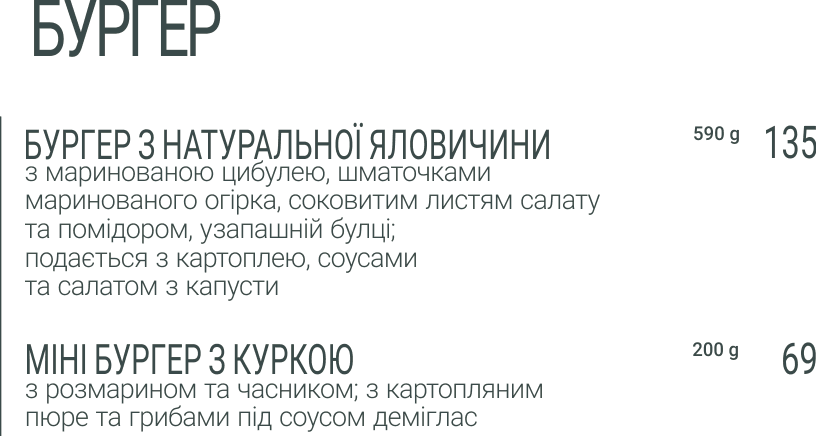
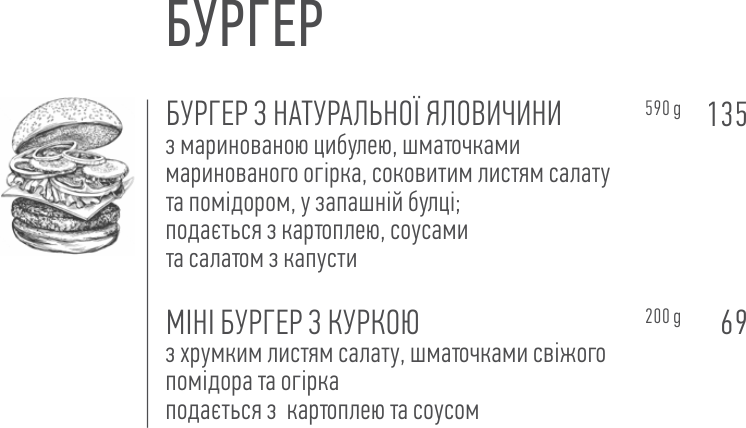
all menu designed

diff --git a/index.html b/index.html
@@ -9,7 +9,7 @@
 <header>
     <div class="header-container">
         <div class="logo-container">
-            <img src="images/cropped-logo-white.png" alt="">
+            <img src="images/logo-white.svg" alt="">
         </div>
         <div class="header-text-container">
             "Товстий Кіт" - Найсмачніша їжа у Луцьку
@@ -18,16 +18,40 @@
 </header>
 <div class="maine-container">
     <div class="maine-menu-container">
-        <div class="menu-title"> Меню Товстий Кіт</div>
-        <div class="hr-line">
-            <img src="images/Menu-Divider.png" alt="">
+        <div class="menu-header">
+            <div class="menu-title"> Меню Товстий Кіт</div>
+            <div class="hr-line">
+                <img src="images/Menu-Divider.png" alt="">
+            </div>
         </div>
         <div class="menu-elements">
-            <img src="images/myaso_ptizza.png" alt="">
-            <img src="images/ryba_moreprodukti.png" alt="">
-            <img src="images/pasta_fresca.png" alt="">
-            <img src="images/burger.png" alt="">
-            <img src="images/deserti.png" alt="">
+            <div class="dark-elements">
+                <img src="images/pizza.png" alt="">
+            </div>
+            <div class="light-elements">
+                <img src="images/salad.png" alt="">
+                <img src="images/new.png" alt="">
+                <img src="images/snacks.png" alt="">
+                <img src="images/soup_&_bakery.png" alt="">
+                <img src="images/poultry_and_meat.png" alt="">
+                <img src="images/seafood_and_fish.png" alt="">
+                <img src="images/paste.png" alt="">
+                <img src="images/burger.png" alt="">
+                <img src="images/desserts.png" alt="">
+            </div>
+            <div class="dark-elements">
+                <img src="images/juce_water_coctaile0+.png" alt="">
+                <img src="images/coffee.png" alt="">
+                <img src="images/ronnefeldt_tea.png" alt="">
+                <img src="images/branded_tea.png" alt="">
+                <img src="images/hot_chocolate.png" alt="">
+            </div>
+            <div class="light-elements">
+                <img src="images/alcohol.png" alt="">
+            </div>
+            <div class="dark-elements">
+                <img src="images/sushi.png" alt="">
+            </div>
         </div>
     </div>
 </div>

diff --git a/css/style.css b/css/style.css
@@ -29,12 +29,12 @@ html, body {
 }
 
 * {
-  font-family: Roboto, sans-serif;
+  font-family: "PF Din Text Comp Pro", "PF Din Text Comp Pro Light", sans-serif;
 }
 
 .header-container {
   min-width: 320px;
-  background-color: #59514c;
+  background-color: #B8AB80;
 }
 
 .logo-container {
@@ -43,7 +43,8 @@ html, body {
   justify-content: center;
 }
 .logo-container img {
-  width: 30%;
+  min-width: 15%;
+  max-width: 15%;
 }
 
 .header-text-container {
@@ -51,45 +52,73 @@ html, body {
   justify-content: center;
   padding-bottom: 30px;
   color: white;
-  font-weight: 200;
-  font-size: 35px;
+  font-weight: 100;
+  font-size: 40px;
 }
 
 .maine-container {
   min-width: 320px;
-  background-color: #c5d9d3;
-  padding: 36px 30px 100px 30px;
+  /*
+    padding: 36px 30px 100px 30px;*/
+}
+
+.dark-elements {
+  background-color: #4D4D4F;
+  display: grid;
+  grid-gap: 5em;
+  justify-content: center;
+  padding: 5em 120px 5em 0;
+}
+
+.light-elements {
+  background-color: white;
+  display: grid;
+  grid-gap: 5em;
+  justify-content: center;
+  padding: 20px 120px 20px 20px;
+}
+
+.menu-header {
+  background-color: #4D4D4F;
+  /*  height: auto;
+    max-width: 100%;*/
 }
 
 .menu-title {
   display: flex;
   padding: 0.5em 0 0.5em 0;
   justify-content: center;
-  font-size: 75px;
-  font-weight: 400;
-  color: #75807d;
+  font-size: 80px;
+  font-family: Roboto, sans-serif;
+  font-weight: 100;
+  color: white;
+  opacity: 0.78;
 }
 
 .hr-line {
   display: flex;
   justify-content: center;
   padding-bottom: 3em;
+  max-width: 70%;
+  margin-left: auto;
+  margin-right: auto;
 }
 
 .menu-elements {
   display: grid;
-  grid-gap: 10em;
+  grid-gap: 5em;
 }
 .menu-elements img {
   align-self: center;
   justify-self: center;
   width: 750px;
   max-width: 100%;
+  min-width: 370px;
   height: auto;
 }
 
 footer {
-  background-color: #59514c;
+  background-color: #B8AB80;
   display: flex;
   justify-content: center;
 }
@@ -98,7 +127,7 @@ footer {
   padding: 30px 0 30px 0;
   color: white;
   font-weight: 200;
-  font-size: 20px;
+  font-size: 30px;
 }
 
 /*# sourceMappingURL=style.css.map */

diff --git a/scss/layout/maine-container.scss b/scss/layout/maine-container.scss
@@ -1,31 +1,54 @@
 .maine-container {
   min-width: $minWidth+px;
-  background-color: $color-maine-blue;
-  padding: 36px 30px 100px 30px;
+/*
+  padding: 36px 30px 100px 30px;*/
 }
-
+.dark-elements {
+  background-color: $color-maine-dark;
+  display: grid;
+  grid-gap: 5em;
+  justify-content: center;
+  padding: 5em 120px 5em 0;
+}
+.light-elements{
+  background-color: white;
+  display: grid;
+  grid-gap: 5em;
+  justify-content: center;
+  padding: 20px 120px 20px 20px;
+}
+.menu-header{
+  background-color: $color-maine-dark;
+/*  height: auto;
+  max-width: 100%;*/
+}
 .menu-title {
   display: flex;
   padding: 0.5em 0 0.5em 0;
   justify-content: center;
   font-size: $extra-large-font;
-  font-weight: 400;
-  color: $color-maine-text;
+  font-family: Roboto, sans-serif;
+  font-weight: 100;
+  color: white;
+  opacity: 0.78;
 }
 
 .hr-line {
   display: flex;
   justify-content: center;
   padding-bottom: 3em;
+  max-width: 70%;
+  @include centering;
 }
 .menu-elements {
   display: grid;
-  grid-gap: 10em;
+  grid-gap: 5em;
   img{
     align-self: center;
     justify-self: center;
     width: 750px;
     max-width: 100%;
+    min-width: 370px;
     height: auto;
   }
 

diff --git a/scss/variables and mixins/variables.scss b/scss/variables and mixins/variables.scss
@@ -8,7 +8,8 @@ $mobile-display: 480;
 
 /*maine colors*/
 $color-maine-blue: #c5d9d3;
-$color-maine-brown: #59514c;
+$color-maine-dark: #4D4D4F;
+$color-maine-brown: #B8AB80;
 /*$color-lightgrey: #f7f7f7;
 $color-midgrey: #e3e2e2;
 $color-darkgrey: #757575;*/
@@ -16,10 +17,10 @@ $color-maine-text: #75807d;
 $color-header-text: white;
 
 /*font sizes*/
-$extra-large-font: 75px;
-$large-font: 35px;
+$extra-large-font: 80px;
+$large-font: 40px;
 $medium-font: 30px;
-$small-font: 20px;
+$small-font: 30px;
 
 /*border radius for all*/
 $br: 5px;

diff --git a/scss/layout/header.scss b/scss/layout/header.scss
@@ -7,7 +7,9 @@
   display: flex;
   justify-content: center;
   img{
-    width: 30%;
+    min-width: 15%;
+    max-width:
+    15%;
   }
 }
 .header-text-container {
@@ -15,6 +17,6 @@
   justify-content: center;
   padding-bottom: 30px;
   color: $color-header-text;
-  font-weight: 200;
+  font-weight: 100;
   font-size: $large-font;
 }

diff --git a/scss/base/typography.scss b/scss/base/typography.scss
@@ -1,3 +1,3 @@
 * {
-  font-family: Roboto, sans-serif;
+  font-family: "PF Din Text Comp Pro", "PF Din Text Comp Pro Light", sans-serif;
 }
